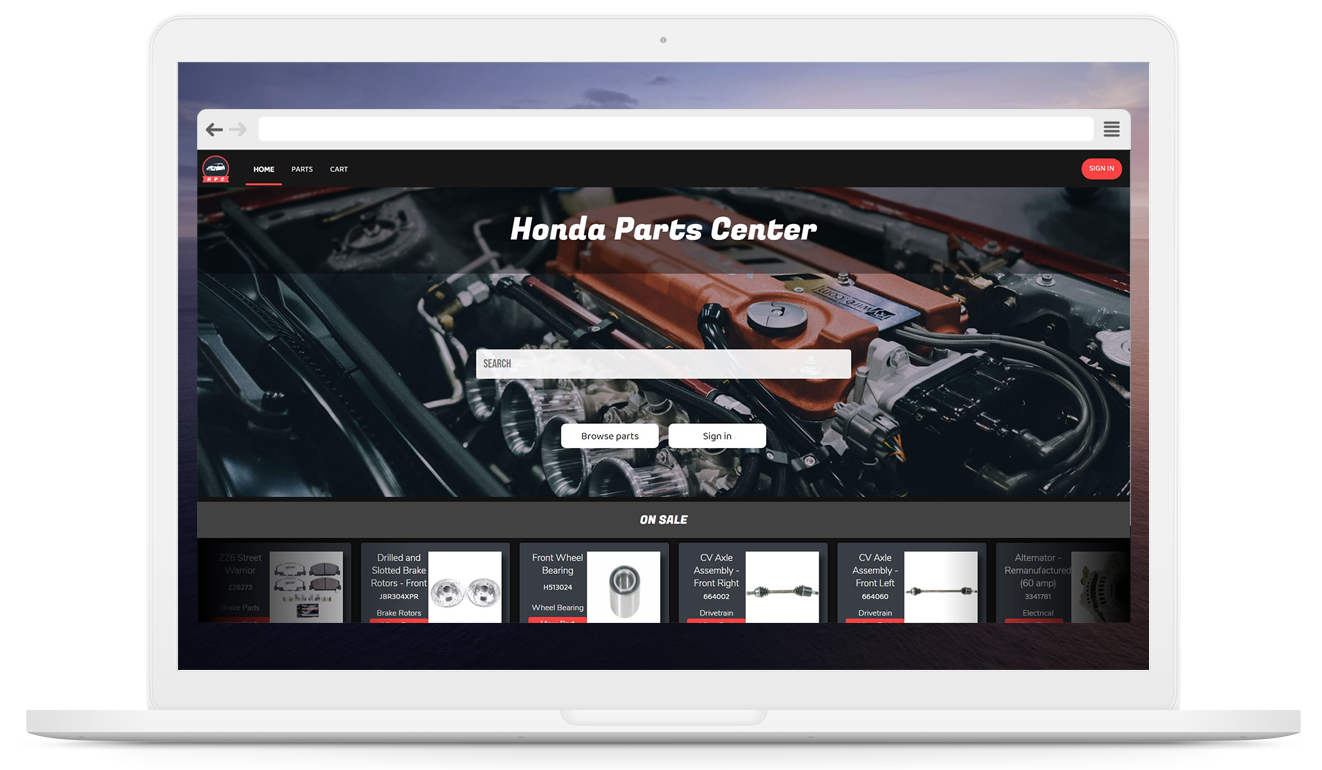
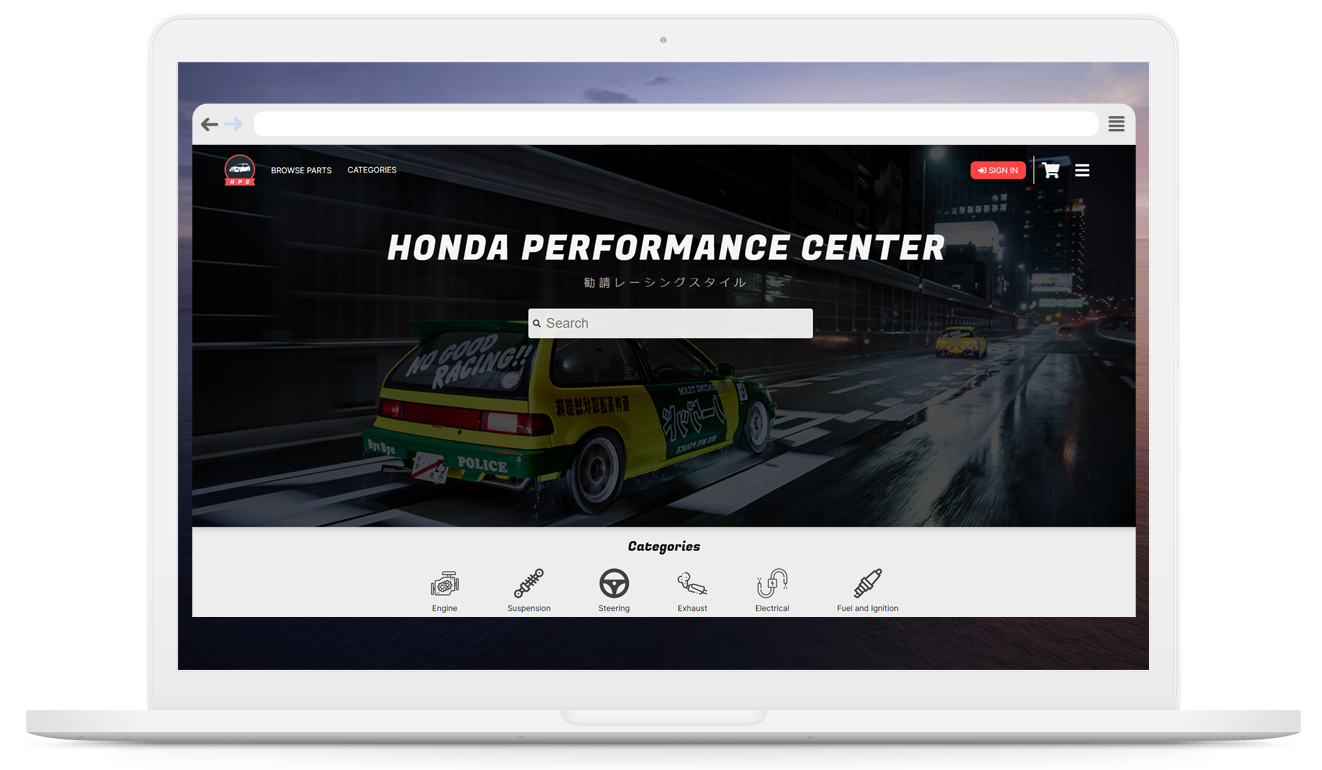
hpc case study to new design

Changed region(s): [[0.1241, 0.1247, 0.8684, 0.8104]]

diff --git a/case-studies/hpc.html b/case-studies/hpc.html
@@ -21,7 +21,7 @@
     <link rel="manifest" href="../site.webmanifest">
 
     
-<title>Honda Parts Center - a case study</title>
+<title>Honda Performance Center - a case study</title>
 
     <script defer src="../scripts/study.js" type="module"></script>
 </head>
@@ -57,7 +57,7 @@
   <path id="Path_1" data-name="Path 1" d="M0,0V377.368s410.526,197.368,729.474,31.579,442.105,116.842,631.579,50.526,420-151.579,495.79-82.105,64.737,58.421,64.737,58.421V0Z" fill="#ff433d"/>
 </svg>
             <h1>
-Honda Parts Center
+Honda Performance Center
 </h1>
             
 <svg class="study-hexagons-hpc-left" width="100%" height="100%" viewBox="0 0 285 275"><path d="M165,0l55,95-55,95H55L0,95,55,0Z" transform="translate(95) rotate(30)"/></svg>
@@ -90,13 +90,13 @@ My first foray into the world of single page applications.
         <article class="study-intro">
             <h2 class="subtitle"><i class="far fa-comment-alt" id=""></i>Introduction</h2>
             <p>
-<strong>Honda Parts Center</strong> (or <strong>HPC</strong>) was my first-ever full stack application.
+<strong>Honda Performance Center</strong> (or <strong>HPC</strong>) was my first-ever full stack application.
 </p>
         </article>
         <article class="study-overview">
             <h2 class="subtitle"><i class="fas fa-search"></i></i>Overview</h2>
             <p>
-<strong>Honda Parts Center</strong> is designed to mimic the typical layout and functionality of many popular eCommerce platforms.  We were tasked with building a full-stack application that utilised an SPA front-end and a Mongo, Express, Node.js backend, with any subject matter of our choosing.
+<strong>HPC</strong> is designed to mimic the typical layout and functionality of many popular eCommerce platforms.  We were tasked with building a full-stack application that utilised an SPA front-end and a Mongo, Express, Node.js backend, with any subject matter of our choosing.
 </p>
         </article>
         <div class="study-img-wrapper">

diff --git a/case-studies/recorderly.html b/case-studies/recorderly.html
@@ -93,7 +93,7 @@ A light-weight and simpler tool aimed at helping the casual music collector keep
         <article class="study-intro">
             <h2 class="subtitle"><i class="far fa-comment-alt" id=""></i>Introduction</h2>
             <p>
-After building my first single page application (Honda Parts Center), I was overwhelmed by overall complexity of the project.  Whilst the site I had built was functional, truth be told - I didn't really understand how all of these different components worked together.  The aim when developing Recorderly was to delve back in to the world of SPAs and build something bigger and better.
+After building my first single page application (Honda Performance Center), I was overwhelmed by overall complexity of the project.  Whilst the site I had built was functional, truth be told - I didn't really understand how all of these different components worked together.  The aim when developing Recorderly was to delve back in to the world of SPAs and build something bigger and better.
 </p>
         </article>
         <article class="study-overview">
